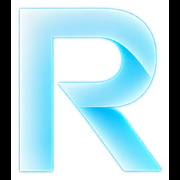
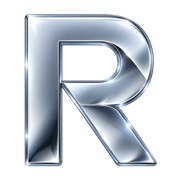
feat: refresh RISE brand assets

diff --git a/src/app/layout.tsx b/src/app/layout.tsx
@@ -13,6 +13,10 @@ export const metadata: Metadata = {
   description: "Painel pessoal: finanças, calendário, lembretes e escola.",
   manifest: "/manifest.json",
   applicationName: "RISE",
+  icons: {
+    icon: [{ url: "/icon.png", type: "image/png", sizes: "512x512" }],
+    apple: [{ url: "/apple-icon.png", type: "image/png", sizes: "180x180" }],
+  },
   appleWebApp: {
     capable: true,
     title: "RISE",

diff --git a/src/components/rise/RiseMark.tsx b/src/components/rise/RiseMark.tsx
@@ -9,7 +9,7 @@ export function RiseMark({ size = 24, className }: { size?: number; className?: 
       alt=""
       width={size}
       height={size}
-      className={`shrink-0 ${className || ""}`}
+      className={`shrink-0 object-contain ${className || ""}`}
     />
   );
 }

diff --git a/docs/CLAUDE_WORKLOG.md b/docs/CLAUDE_WORKLOG.md
@@ -40,7 +40,8 @@ push diretamente. Não há watcher de commit nem arquivo de sinalização.
 - Utilitários CSS novos: `.rise-rotating-border` (conic-gradient + mask, com
   `@property`), `.rise-spotlight`, `.tnum`, `.no-scrollbar`, bloco de
   `prefers-reduced-motion` e `[data-motion="reduced"]`.
-- Marca: `RiseMark` / `RiseBadge` / `RiseLogo` — o triângulo ascendente do favicon.
+- Marca: `RiseMark` / `RiseBadge` / `RiseLogo` usam o R metálico oficial em
+  `public/icons/R.png`, incluindo todos os ícones derivados.
   Badge "Privado" removido da sidebar. Removido o bloco falso "3º ano · 72%".
 - `next.config.ts`: `devIndicators: false` (opção oficial da v16 — confirmada na
   documentação; nada de esconder DOM do Next com CSS).
